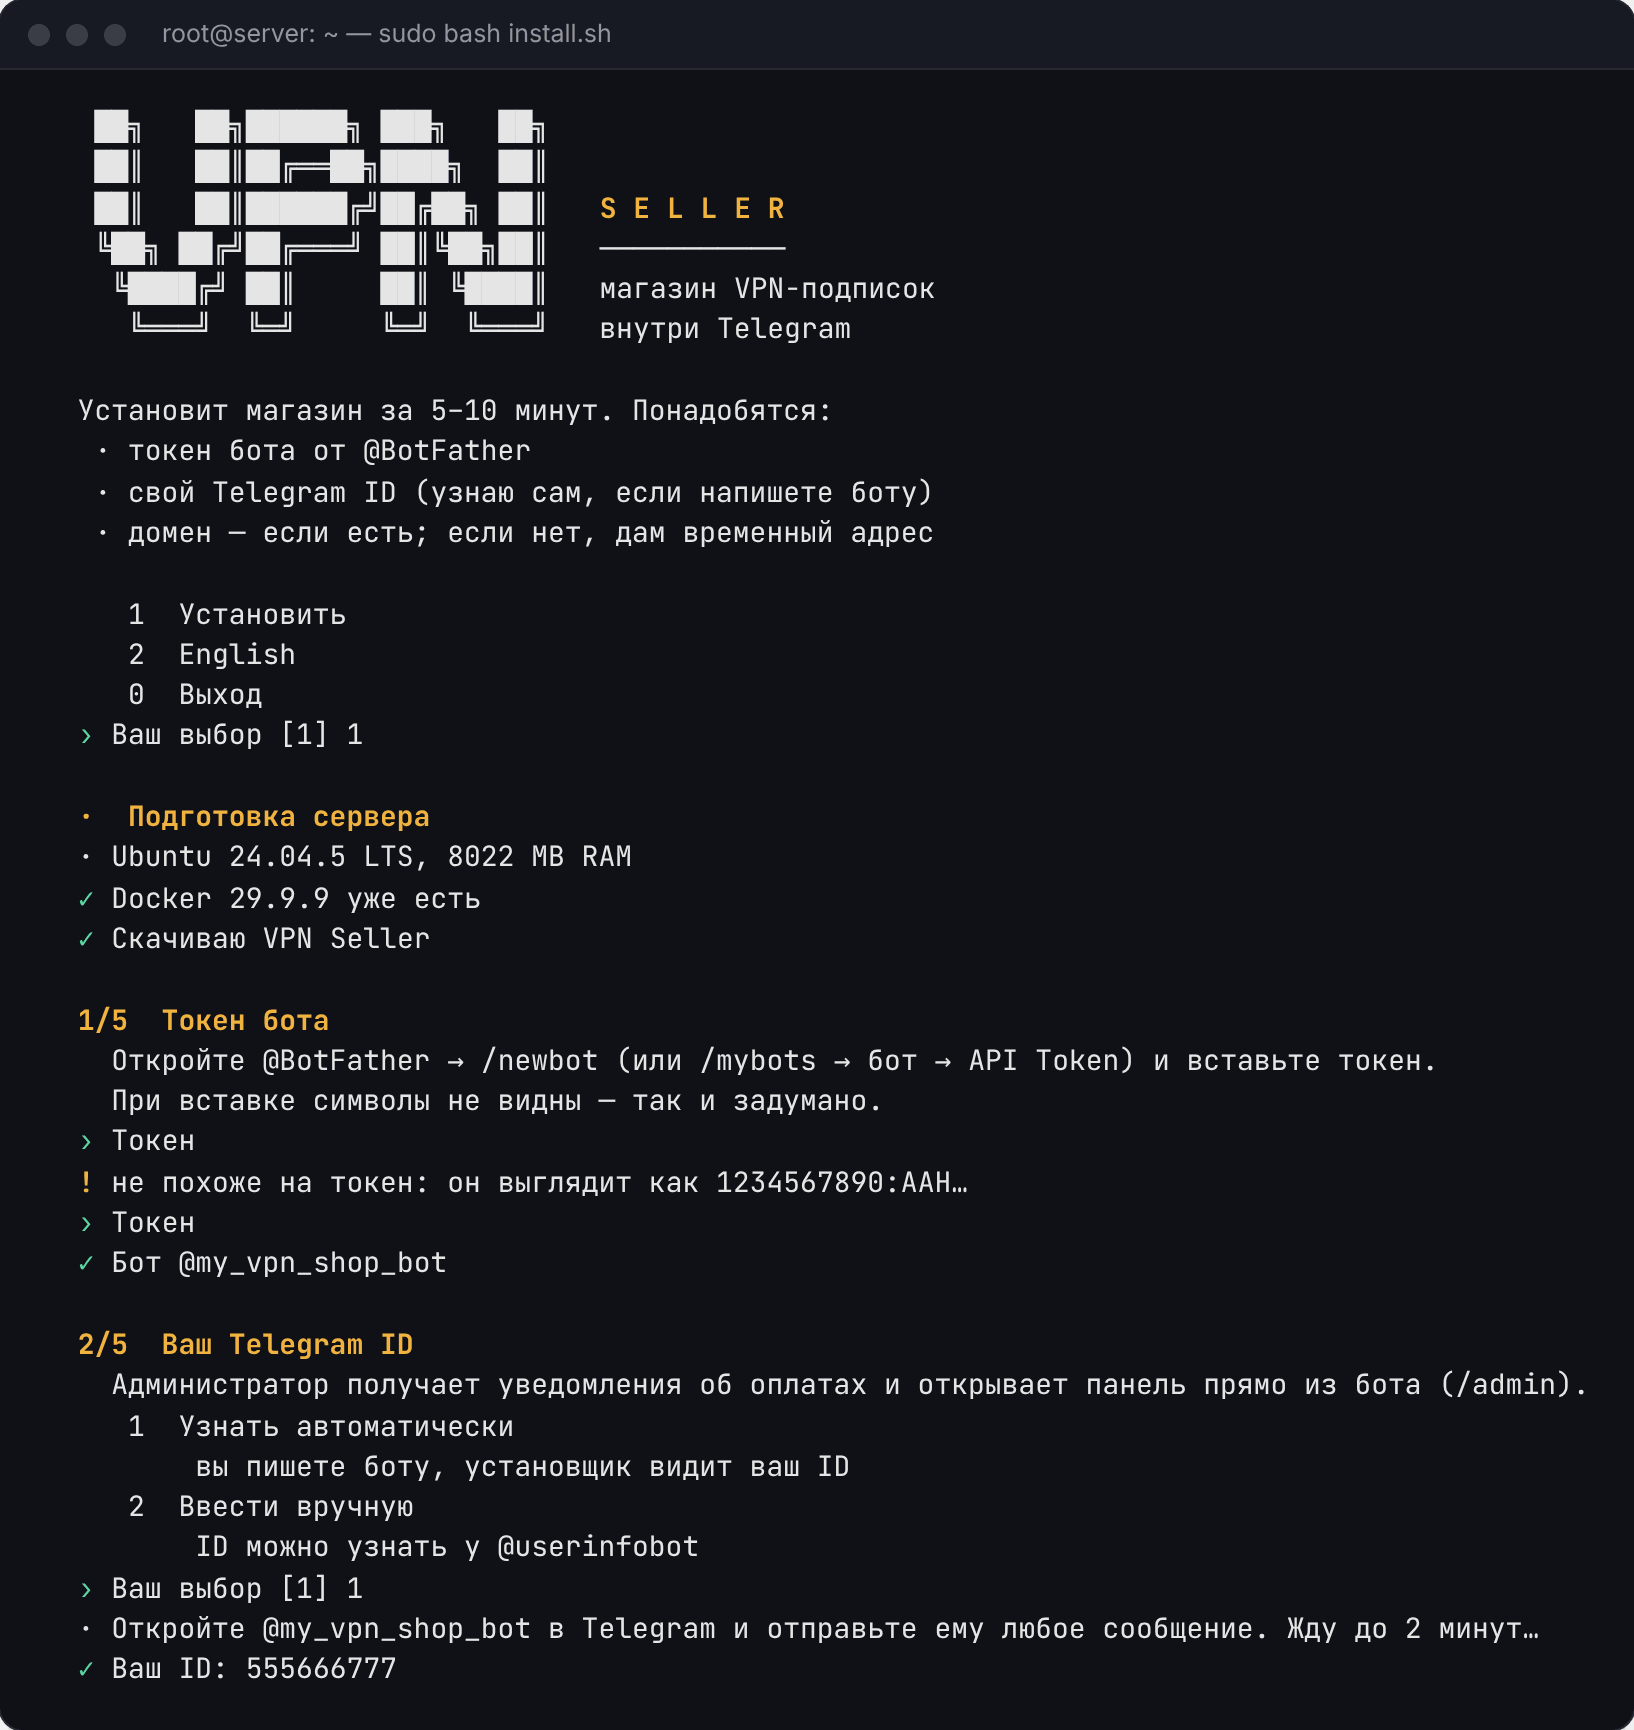
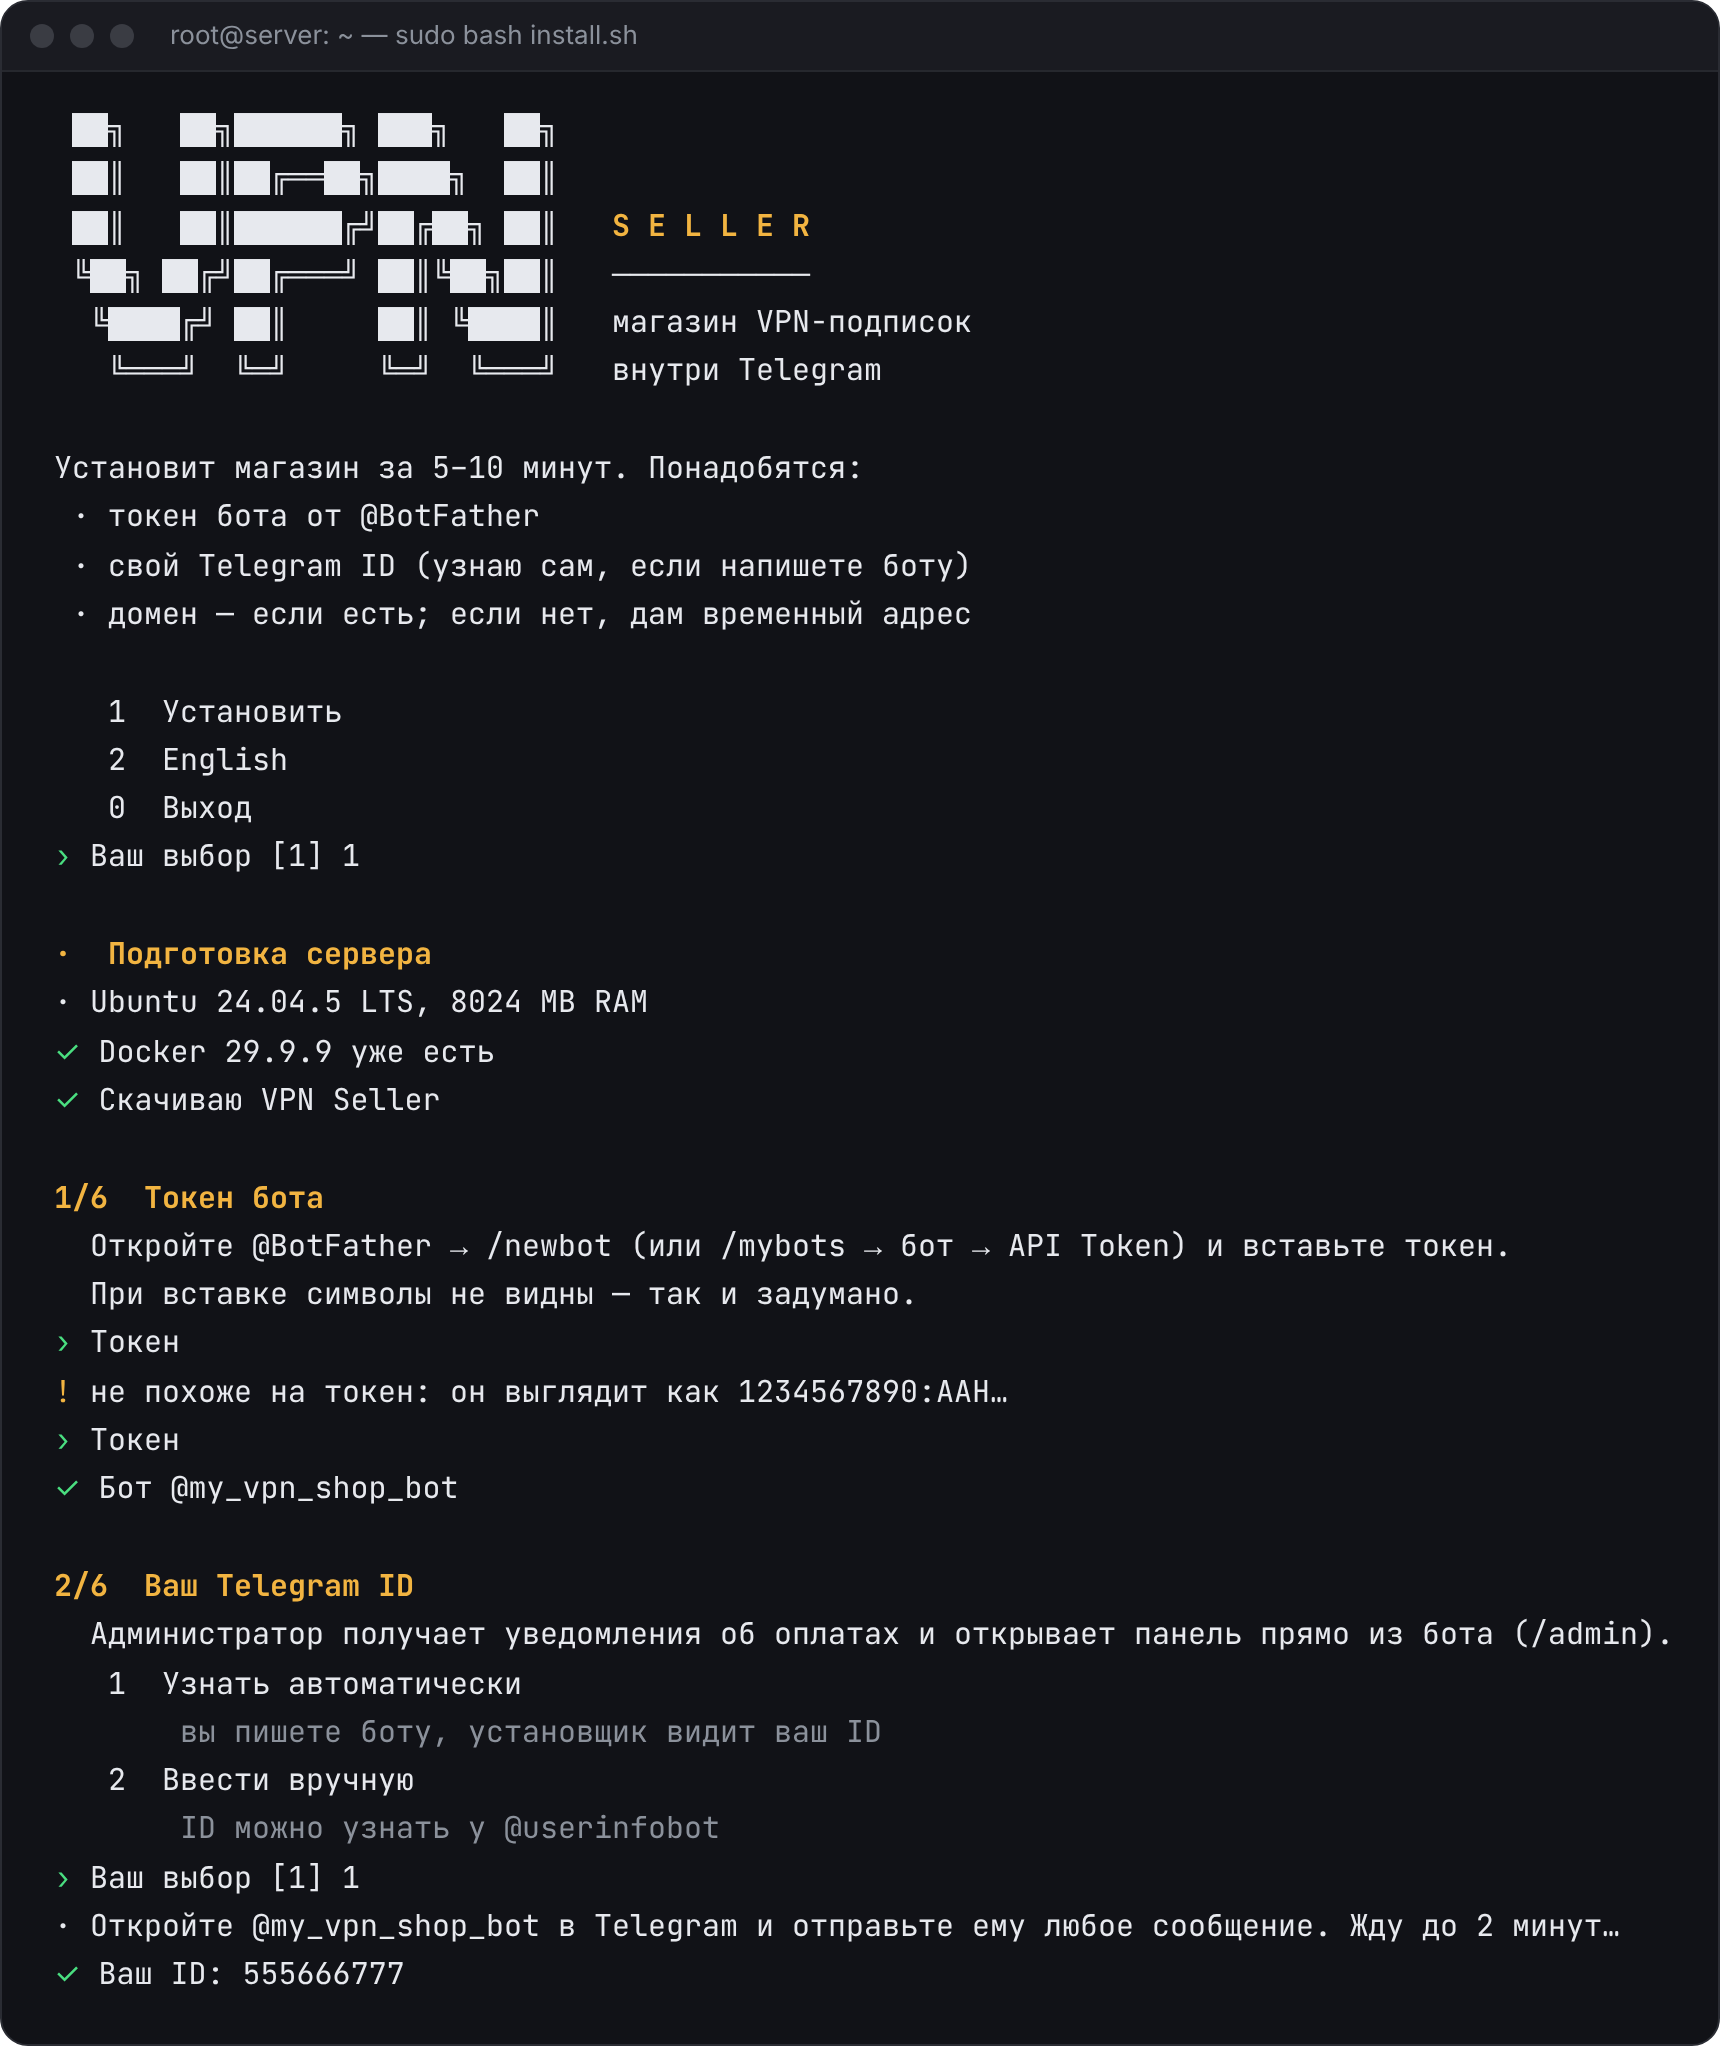
README: pictures for 1.8.0; installer: the second question numbered out of six
- Installer screenshots with the six questions (the database one) and the
  server menu with "Move to PostgreSQL"; the Ticket style, the nine home
  pictures and the Database page, in both READMEs.
- install.sh: "2/5 Your Telegram ID" → "2/6"; the installer test now checks
  every question is numbered out of six.

Claude-Session: https://claude.ai/code/session_01VgJAysVYrhj3cZjBa1BbcK

diff --git a/tests/installer/run.py b/tests/installer/run.py
@@ -242,6 +242,7 @@ def s2_curl_pipe_tunnel_interactive():
     check("s2 admin ID detected from the message", e.get("ADMIN_TELEGRAM_IDS") == str(OWNER), e.get("ADMIN_TELEGRAM_IDS"))
     check("s2 mode tunnel", e.get("INSTALL_MODE") == "tunnel" and e.get("COMPOSE_PROFILES") == "tunnel")
     check("s2 password kept", e.get("ADMIN_PASSWORD") == "Sandbox-Pass-2026")
+    check("s2 every question numbered out of six", all(f"{i}/6  " in out for i in range(1, 7)) and "/5  " not in out)
     check("s2 database question: SQLite recommended on 1 GB", "SQLite — встроенная" in out
           and "PostgreSQL — для большого магазина" in out and not read_env(d).get("DATABASE_URL", "").startswith("postgres"))
     check("s2 PUBLIC_URL left empty (follows tunnel)", e.get("PUBLIC_URL") == "" and e.get("TUNNEL_METRICS_URL") == "http://tunnel:2000")

diff --git a/README.md b/README.md
@@ -67,9 +67,17 @@ wget -qO install.sh https://raw.githubusercontent.com/WWS909/vpn-seller/main/ins
 
 <p align="center"><img src="docs/screenshots/styles-new.webp" alt="Газета, Брутал и Терминал"></p>
 
+«Билет» — посадочный талон: у блоков вырезы по бокам, вместо линий перфорация, а тариф — билет с отрывным корешком, на котором цена.
+
+<p align="center"><img src="docs/screenshots/styles-ticket.webp" alt="Стиль «Билет»: главная, тарифы, светлая тема"></p>
+
 Сверху можно покрасить шапку и поставить картинку — рисунок в цвет магазина или свою, а кнопкам дать другую форму:
 
 <p align="center"><img src="docs/screenshots/extras.webp" alt="Шапка, картинки и кнопки"></p>
+
+Готовых картинок для главной девять. Все рисуются в цвет магазина и сами меняются со светлой и тёмной темой:
+
+<p align="center"><img src="docs/screenshots/pictures.webp" alt="Девять картинок для главной"></p>
 
 ![Оформление: главный экран, стиль и живой предпросмотр](docs/screenshots/admin-layouts.webp)
 
@@ -562,6 +570,8 @@ sudo vpn-seller restore /путь/backup-….zip
 Выбор — при установке. С SQLite на PostgreSQL можно перейти **в любой момент**: админка → «База данных» → «Перейти на PostgreSQL» (или `vpn-seller` → «Перейти на PostgreSQL», или `vpn-seller postgres`). Когда клиентов с подпиской становится много, админка сама это подскажет.
 
 Как идёт переход: копия базы → запуск PostgreSQL → магазин на паузе, пока переносятся данные (обычно меньше минуты) → в новой базе пересчитываются записи по каждой таблице → магазин запускается на PostgreSQL и пишет владельцу в Telegram. Файл SQLite при этом только читается и остаётся на сервере (`data/vpn-before-postgres-….db`); если что-то не так, магазин сам возвращается на SQLite. Обратного перехода из панели нет — он и не нужен: копия базы переносима и восстанавливается в любую из двух.
+
+![База данных в админке: какая сейчас и переход на PostgreSQL](docs/screenshots/admin-database.png)
 
 ## Без Docker
 

diff --git a/README.en.md b/README.en.md
@@ -63,13 +63,21 @@ And this is the same home screen in five styles:
 
 <p align="center"><img src="docs/screenshots/styles-en.webp" alt="Five styles"></p>
 
-And three more — Newspaper, Brutal and Terminal: they change not only colours but how the cards, buttons and plans are drawn.
+And four more — Newspaper, Brutal, Terminal and Ticket: they change not only colours but how the cards, buttons and plans are drawn.
 
 <p align="center"><img src="docs/screenshots/styles-new-en.webp" alt="Newspaper, Brutal and Terminal"></p>
+
+Ticket is a boarding pass: notches at the sides of every block, perforations instead of rules, and a plan is a ticket with a tear-off stub carrying the price.
+
+<p align="center"><img src="docs/screenshots/styles-ticket-en.webp" alt="The Ticket style: home, plans, light theme"></p>
 
 The header can take a colour, the home screen a picture (a drawing in your colour or your own), and the buttons another shape:
 
 <p align="center"><img src="docs/screenshots/extras-en.webp" alt="Header, pictures and buttons"></p>
+
+There are nine ready pictures for the home screen. All are drawn in your colour and follow the light and dark theme:
+
+<p align="center"><img src="docs/screenshots/pictures-en.webp" alt="Nine home pictures"></p>
 
 ![Look: home screen, style and a live preview](docs/screenshots/admin-layouts.webp)
 
@@ -542,6 +550,8 @@ By hand without the menu: `git pull && docker compose up -d --build`. New databa
 You choose on install. You can move from SQLite to PostgreSQL **at any time**: admin → Database → Move to PostgreSQL (or `vpn-seller` → Move to PostgreSQL, or `vpn-seller postgres`). The panel tells you when the shop has grown enough.
 
 How the move goes: a backup → PostgreSQL starts → the shop pauses while the data is copied (usually under a minute) → the rows are counted table by table in the new database → the shop starts on PostgreSQL and messages the owner in Telegram. The SQLite file is only read and stays on the server (`data/vpn-before-postgres-….db`); if anything is off, the shop goes back to SQLite by itself. There is no move back from the panel, and none is needed: backups are portable and restore into either.
+
+![The Database page: which one now and the move to PostgreSQL](docs/screenshots/admin-database.png)
 
 ## Without Docker
 
